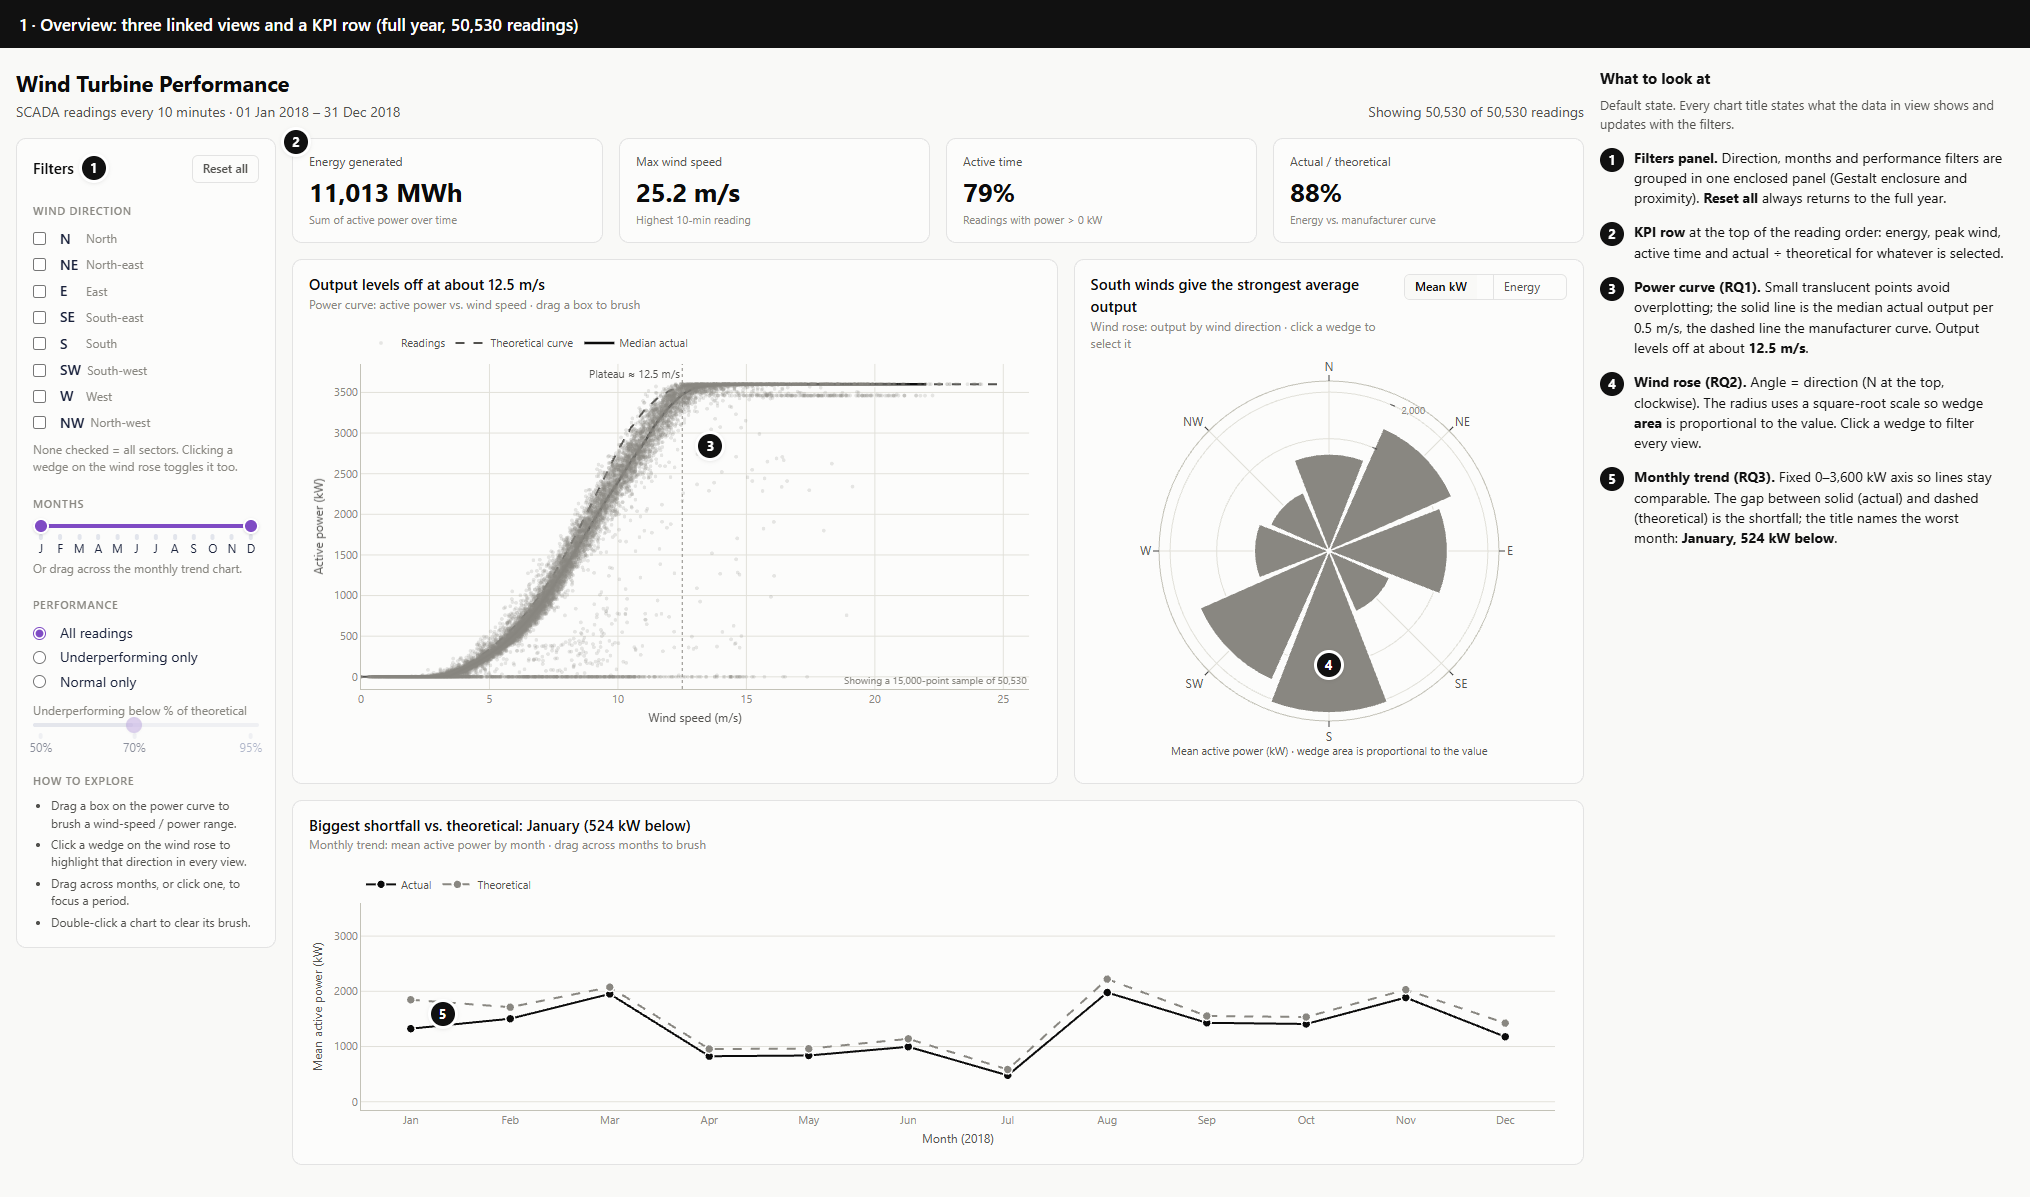
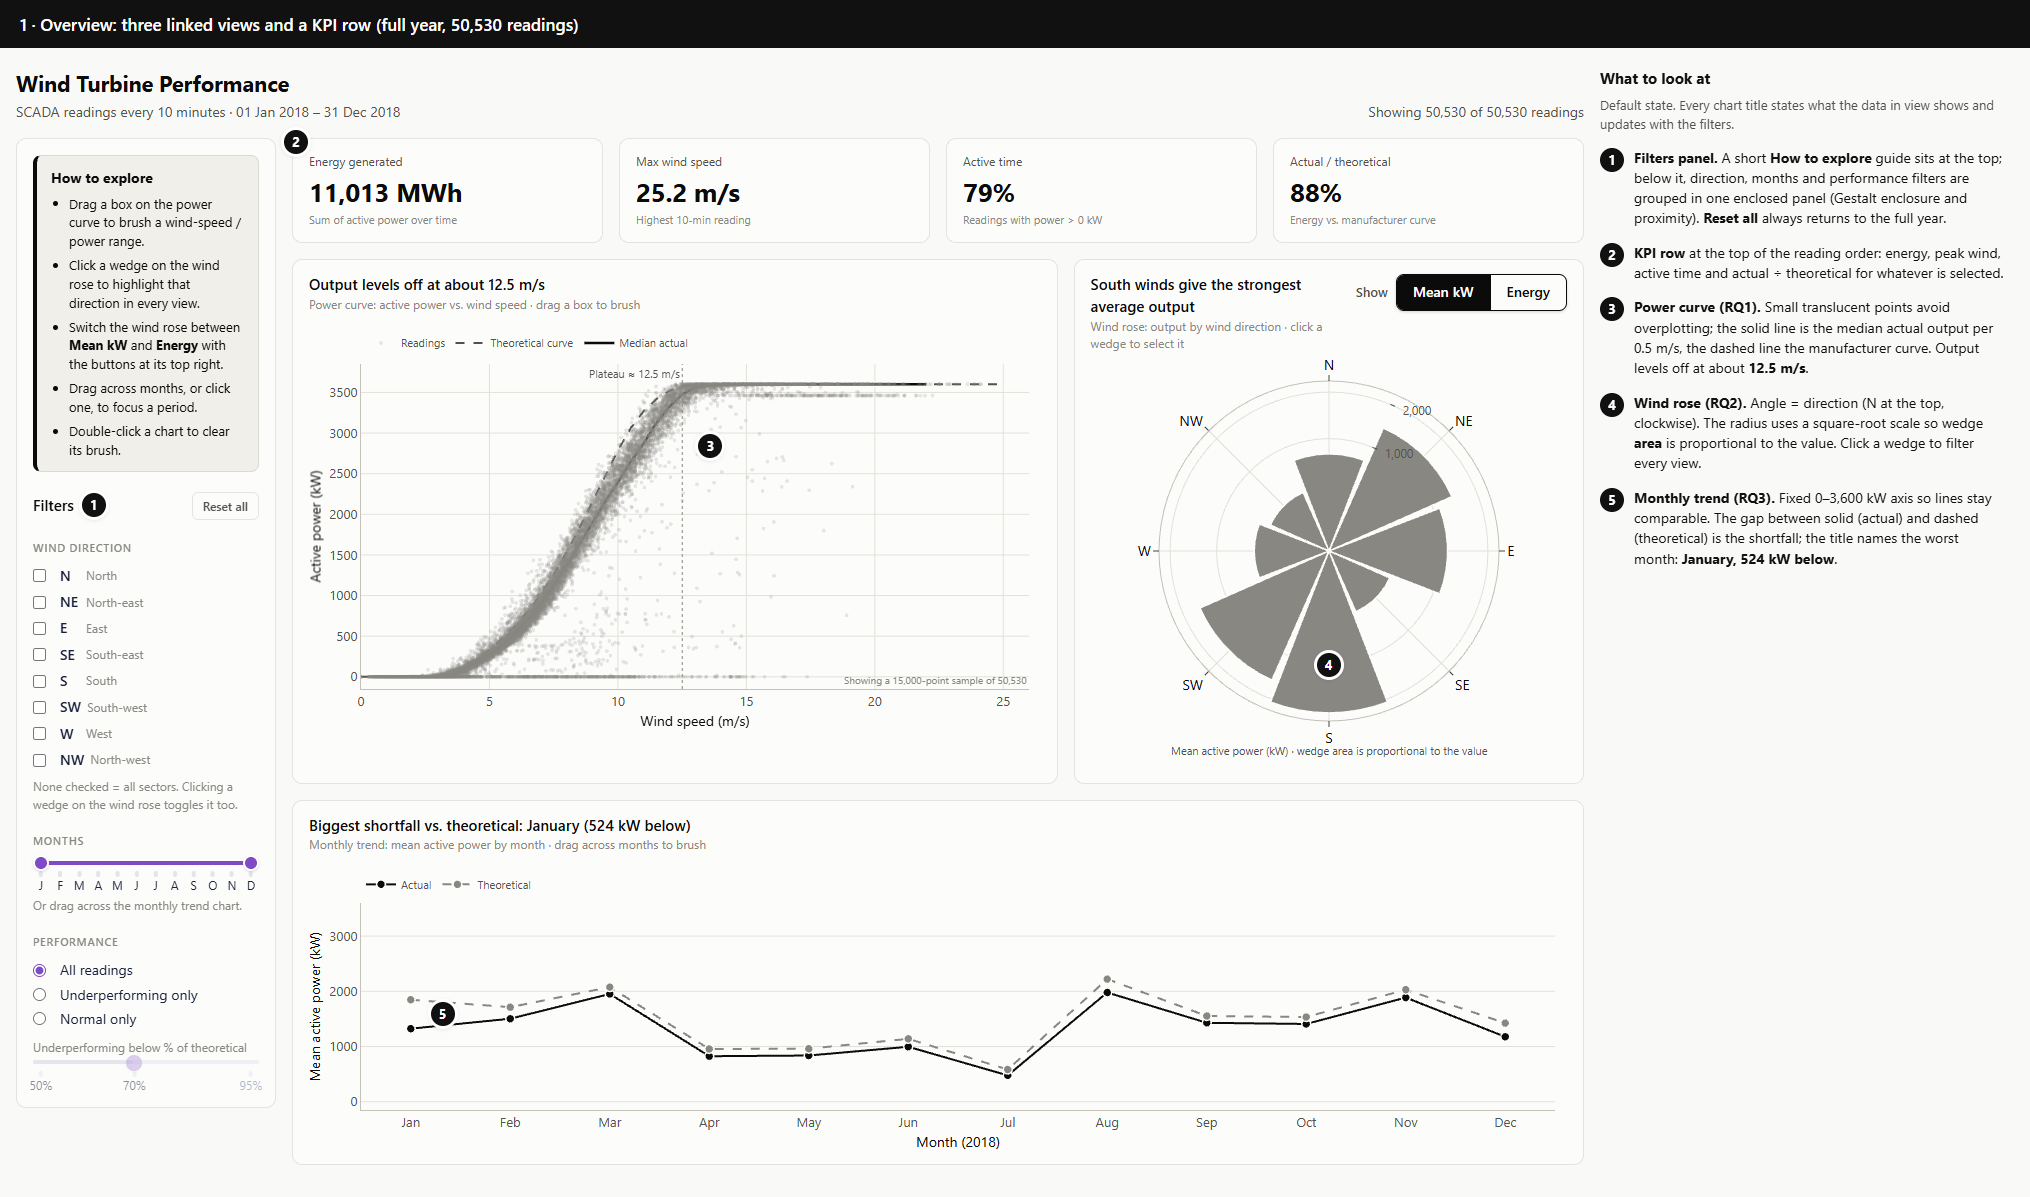
Usability fixes: prominent Mean kW / Energy switch, How to explore guide at top of sidebar, larger axis text

diff --git a/assets/style.css b/assets/style.css
@@ -11,6 +11,8 @@
   --hairline: rgba(11, 11, 11, 0.10);
   --grid: #e1e0d9;
   --accent: #2a78d6;
+  --help-bg: #f0efe9;
+  --help-border: #dcdad1;
   --radius: 10px;
   --gap: 16px;
   --font: system-ui, -apple-system, "Segoe UI", sans-serif;
@@ -90,8 +92,14 @@ h1, h2, h3, p { margin: 0; }
 .perf-mode label { display: flex; align-items: center; gap: 6px; padding: 2px 0; cursor: pointer; }
 .perf-mode { margin-bottom: 8px; }
 
-.how-to ul { margin: 0; padding-left: 18px; color: var(--ink-secondary); font-size: 12px; }
-.how-to li + li { margin-top: 4px; }
+/* Usage guide: first thing in the sidebar, tinted so it reads as help, not a filter. */
+.how-to {
+  background: var(--help-bg); border: 1px solid var(--help-border);
+  border-left: 4px solid var(--ink); border-radius: 8px; padding: 12px 14px;
+}
+.how-to h3 { font-size: 14px; font-weight: 650; color: var(--ink); margin-bottom: 6px; }
+.how-to ul { margin: 0; padding-left: 18px; color: var(--ink); font-size: 13px; }
+.how-to li + li { margin-top: 5px; }
 
 /* --- KPI row (proximity: four related numbers in one band) --------------- */
 .kpi-row { display: grid; grid-template-columns: repeat(4, minmax(0, 1fr)); gap: var(--gap); }
@@ -132,18 +140,26 @@ h1, h2, h3, p { margin: 0; }
 .graph-box { width: 100%; height: 300px; }
 .graph-box-tall { height: 420px; }
 
-/* Segmented toggle for the bar metric */
+/* Wind-rose metric switch. Testers missed a small, faint version of it, so it is labelled,
+   larger and outlined, and the active option is filled. Dark ink rather than a hue, because
+   hue is reserved for selected wind-direction sectors. */
+.metric-switch { display: flex; align-items: center; gap: 8px; flex: none; }
+.metric-switch-label { font-size: 13px; font-weight: 600; color: var(--ink-secondary); }
 .segmented {
-  display: inline-flex; border: 1px solid var(--hairline); border-radius: 6px;
-  overflow: hidden; flex: none;
+  display: inline-flex; border: 1.5px solid var(--ink); border-radius: 8px;
+  overflow: hidden; flex: none; box-shadow: 0 1px 3px rgba(11, 11, 11, 0.18);
 }
-.segmented label {
+/* Dash 4 gives inline options a right margin and a purple selected/hover colour; the
+   doubled class selectors override both. */
+.segmented .dash-options-list-option.dash-radioitems-inline {
   display: inline-flex; align-items: center; margin: 0;
-  padding: 3px 10px; font-size: 12px; color: var(--ink-secondary); cursor: pointer;
+  padding: 7px 16px; font-size: 14px; font-weight: 600; color: var(--ink); cursor: pointer;
 }
-.segmented label + label { border-left: 1px solid var(--hairline); }
+.segmented .dash-options-list-option + .dash-options-list-option { border-left: 1.5px solid var(--ink); }
+.segmented .dash-options-list-option.dash-radioitems-inline:hover { background: var(--help-bg); color: var(--ink); }
 .segmented input { position: absolute; opacity: 0; pointer-events: none; }
-.segmented label:has(input:checked) { background: var(--page); color: var(--ink); font-weight: 600; }
+.segmented .dash-options-list-option.dash-radioitems-inline.selected,
+.segmented .dash-options-list-option.dash-radioitems-inline.selected * { background: var(--ink); color: #fff; }
 .segmented label:has(input:focus-visible) { outline: 2px solid var(--accent); outline-offset: -2px; }
 
 /* --- Update feedback ---------------------------------------------------- */
@@ -168,4 +184,5 @@ h1, h2, h3, p { margin: 0; }
   .kpi-value { font-size: 21px; }
   .sector-checklist { grid-template-columns: 1fr 1fr; }
   .graph-box-tall { height: 360px; }
+  .card-header { flex-wrap: wrap; }
 }

diff --git a/dashboard/layout.py b/dashboard/layout.py
@@ -45,6 +45,19 @@ def _sidebar() -> html.Aside:
         for s in SECTORS
     ]
     return html.Aside(className="sidebar", children=[
+        # Usability testing: testers missed this guide at the bottom of the sidebar, so it
+        # now comes first, in a tinted box, above the filters.
+        html.Div(className="how-to", children=[
+            html.H3("How to explore"),
+            html.Ul([
+                html.Li("Drag a box on the power curve to brush a wind-speed / power range."),
+                html.Li("Click a wedge on the wind rose to highlight that direction in every view."),
+                html.Li(["Switch the wind rose between ", html.B("Mean kW"), " and ", html.B("Energy"),
+                         " with the buttons at its top right."]),
+                html.Li("Drag across months, or click one, to focus a period."),
+                html.Li("Double-click a chart to clear its brush."),
+            ]),
+        ]),
         html.Div(className="sidebar-header", children=[
             html.H2("Filters"),
             html.Button("Reset all", id="reset-button", className="reset-button", n_clicks=0),
@@ -79,15 +92,6 @@ def _sidebar() -> html.Aside:
                        tooltip={"placement": "bottom", "template": "{value}%"},
                        allow_direct_input=False),
         ),
-        html.Div(className="filter-group how-to", children=[
-            html.H3("How to explore"),
-            html.Ul([
-                html.Li("Drag a box on the power curve to brush a wind-speed / power range."),
-                html.Li("Click a wedge on the wind rose to highlight that direction in every view."),
-                html.Li("Drag across months, or click one, to focus a period."),
-                html.Li("Double-click a chart to clear its brush."),
-            ]),
-        ]),
     ])
 
 
@@ -125,10 +129,16 @@ def build_layout(df: pd.DataFrame) -> html.Div:
                     _card("rose-title", "Wind rose: output by wind direction · click a wedge to select it",
                           dcc.Graph(id="rose-chart",
                                     config={**GRAPH_CONFIG, "displayModeBar": False}),
-                          controls=dcc.RadioItems(
-                              id="rose-metric", value="mean", inline=True, className="segmented",
-                              options=[{"label": "Mean kW", "value": "mean"},
-                                       {"label": "Energy", "value": "energy"}]),
+                          # Usability testing: two of three testers first answered from the wrong
+                          # metric because they missed this switch, so it is now labelled and
+                          # drawn as a prominent button pair.
+                          controls=html.Div(className="metric-switch", children=[
+                              html.Span("Show", className="metric-switch-label"),
+                              dcc.RadioItems(
+                                  id="rose-metric", value="mean", inline=True, className="segmented",
+                                  options=[{"label": "Mean kW", "value": "mean"},
+                                           {"label": "Energy", "value": "energy"}]),
+                          ]),
                           class_name="card-bar", tall=True),
                     _card("line-title", "Monthly trend: mean active power by month · drag across months to brush",
                           dcc.Graph(id="line-chart",

diff --git a/dashboard/figures.py b/dashboard/figures.py
@@ -26,8 +26,10 @@ def _base_layout(fig: go.Figure, *, x_title: str, y_title: str) -> go.Figure:
     axis = dict(
         showgrid=True, gridcolor=COLORS["grid"], gridwidth=1,
         linecolor=COLORS["axis"], zeroline=False, ticks="",
-        tickfont=dict(color=COLORS["muted"], size=11),
-        title=dict(font=dict(color=COLORS["ink_secondary"], size=12), standoff=8),
+        # Usability testing: a tester found the axis text too small, so ticks are 13 px
+        # (was 11) in a darker grey, and axis titles 14 px.
+        tickfont=dict(color=COLORS["ink_secondary"], size=13),
+        title=dict(font=dict(color=COLORS["ink"], size=14), standoff=8),
     )
     fig.update_layout(
         template="none",
@@ -354,14 +356,14 @@ def rose_figure(summary: pd.DataFrame, selected: tuple[str, ...], metric: str) -
             bgcolor=COLORS["surface"], bargap=0.06,
             angularaxis=dict(direction="clockwise", rotation=90, type="category",
                              linecolor=COLORS["axis"], gridcolor=COLORS["grid"],
-                             tickfont=dict(color=COLORS["ink_secondary"], size=12)),
+                             tickfont=dict(color=COLORS["ink"], size=14)),
             # Ticks sit at sqrt(value) but are labelled with the value itself.
             radialaxis=dict(range=[0, math.sqrt(vmax) * 1.05 if vmax else 1],
                             tickvals=[math.sqrt(t) for t in ticks],
                             ticktext=[f"{t:,.0f}" for t in ticks],
                             angle=67.5, tickangle=67.5, linecolor=COLORS["axis"],
                             gridcolor=COLORS["grid"], showline=False,
-                            tickfont=dict(color=COLORS["muted"], size=10)),
+                            tickfont=dict(color=COLORS["ink_secondary"], size=12)),
         ),
         annotations=[dict(text=f"{label} · wedge area is proportional to the value", showarrow=False,
                           xref="paper", yref="paper", x=0.5, y=-0.06, xanchor="center", yanchor="top",

diff --git a/README.md b/README.md
@@ -212,6 +212,17 @@ The channel justification table in the proposal is followed, with these changes:
 The rest matches the proposal: active power → y-position, wind speed → x-position, time (months) →
 x-position flowing left to right on a line, and a side-panel layout with a KPI row.
 
+## Changes after usability testing
+
+Three peers who had not seen the dataset (P1–P3) each did three think-aloud tasks, one per research question.
+All three finished every task, one with a hint. These changes came out of the sessions:
+
+| What testers ran into | Change |
+|---|---|
+| Two of three first answered the energy question from the default **Mean kW** view: the small, faint switch was easy to miss (P1, P3). | The wind-rose switch is now labelled **Show**, larger, outlined, and the active option is filled dark. |
+| The **How to explore** guide helped, but sat at the bottom of the sidebar where it was easy to miss (P2). | The guide moved to the top of the sidebar, above the filters, in a tinted box, with a new line about the switch. |
+| Axis text was too small to read comfortably (P3). | Axis tick labels went from 11 to 13 px in a darker grey, axis titles from 12 to 14 px, and the wind-rose labels grew too. |
+
 ## Interaction
 
 - **Wind rose:** click a wedge to select that sector in every view (it toggles the sidebar checkbox too).
@@ -229,8 +240,8 @@ x-position flowing left to right on a line, and a side-panel layout with a KPI r
 
 The layout follows a Z-pattern: title and reading count first, then the KPI row, then the views. Each view sits in its
 own card (enclosure), the two views that share the wind-speed / direction question sit side by side above the
-full-width time view (proximity), and a sector keeps the same colour in every view (similarity). All filters live in
-one sidebar panel with **Reset all** at the top. Below about 1,200 px wide the views stack; below about 860 px the
+full-width time view (proximity), and a sector keeps the same colour in every view (similarity). The sidebar opens
+with a short **How to explore** guide, then all the filters in one panel with **Reset all** at the top. Below about 1,200 px wide the views stack; below about 860 px the
 sidebar moves above them, and the layout works down to phone width without horizontal scrolling.
 
 ## Deployment (Render)
